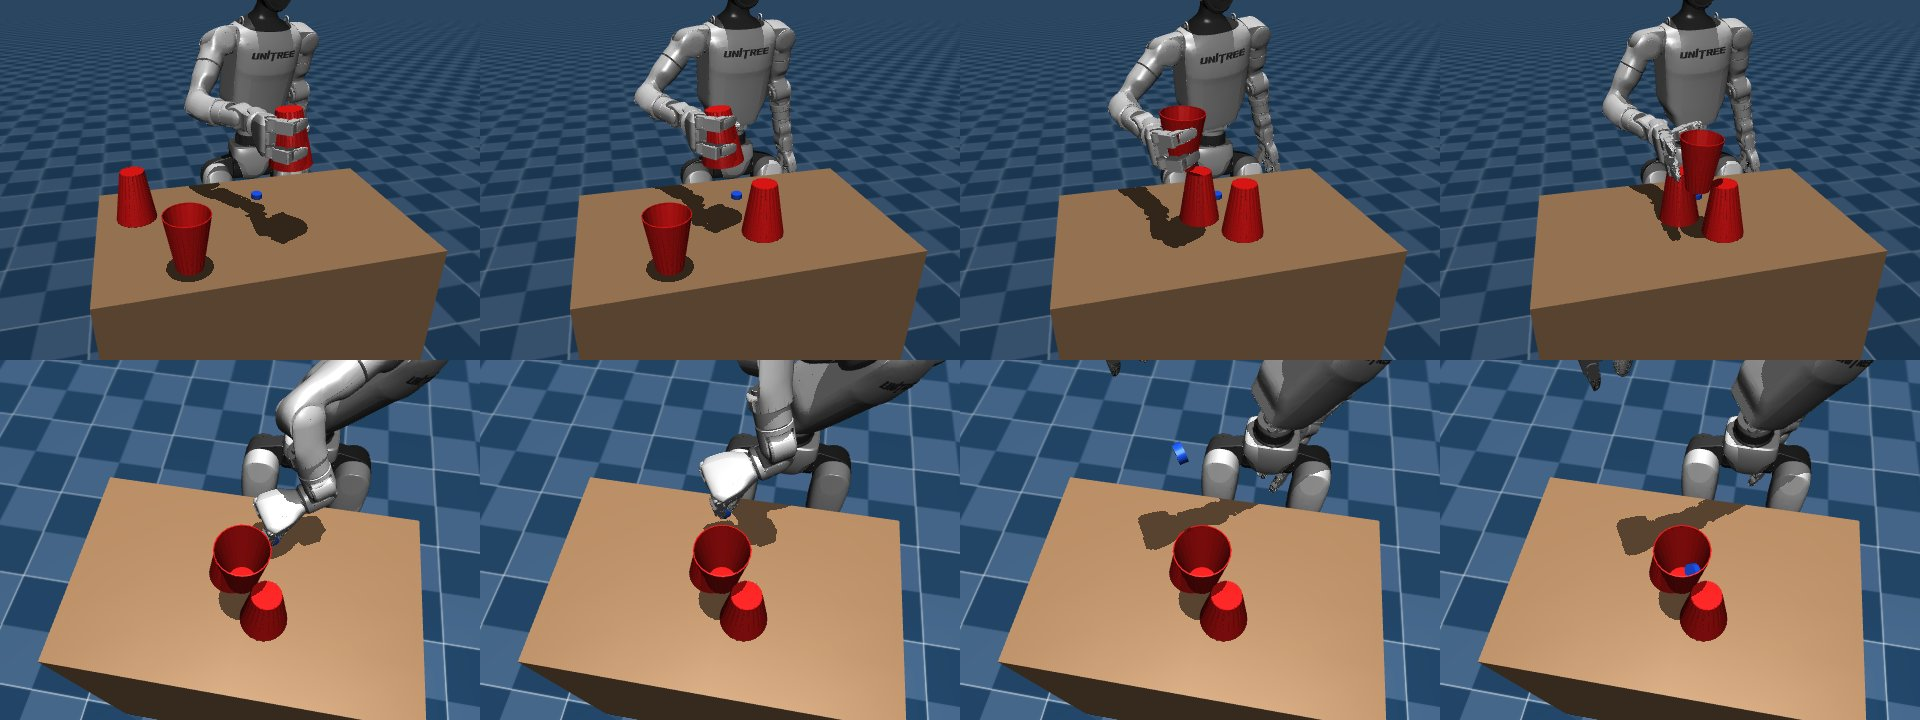
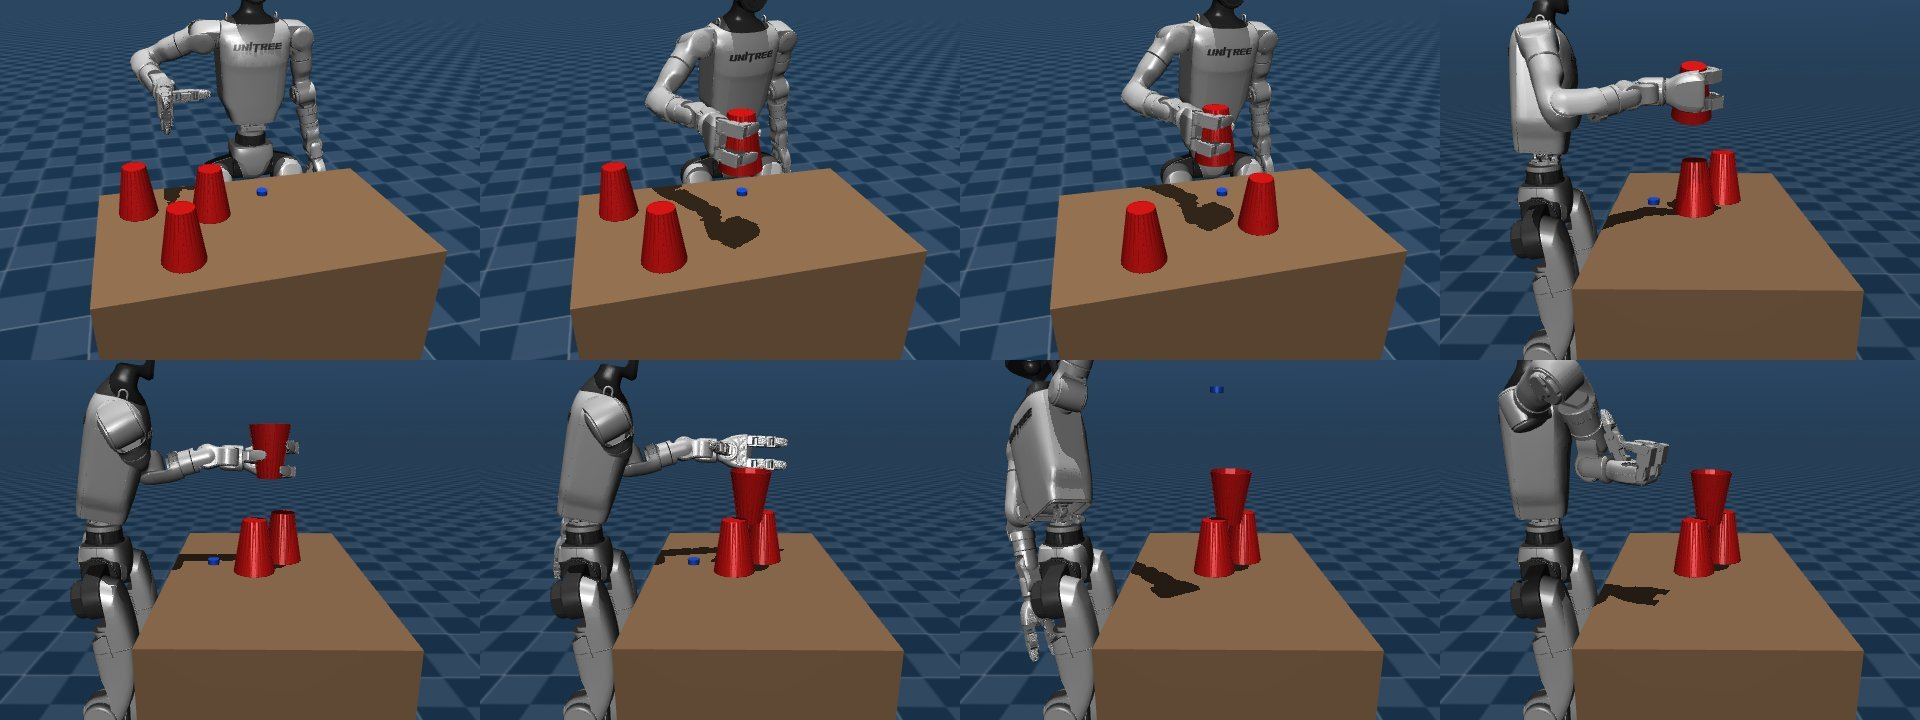
README and image for the pyramid from your clips (results pending)

diff --git a/README.md b/README.md
@@ -4,36 +4,38 @@ Two tasks share one pipeline: phone videos of your hand → 3D human demonstrati
 in **MuJoCo** → **behavior cloning** → **RL fine-tuning (PPO)**.
 
 - **[Humanoid cup pyramid](#humanoid-cup-pyramid-unitree-g1)** (current). A **Unitree G1** with Dex3 hands
-  builds a pyramid from three red party cups, then pinches a bottle cap off the table and throws it into the top
-  cup.
+  builds a pyramid from three red party cups lying anywhere (turning the top one over in the air), throws a
+  bottle cap into the top cup until it goes in, and shows a thumbs-up. It learns from your phone clips.
 - **[Panda ball in cup](#panda-ball-in-cup-the-original-task)** (the original task). A **Franka Panda** picks up
   a ball and drops it into a cup.
 
 ## Humanoid cup pyramid (Unitree G1)
 
-![G1 building the pyramid and throwing the cap into the top cup](docs/g1_pyramid.jpg)
+![G1 building the pyramid from cups lying anywhere, turning the top cup over in the air, throwing the cap and showing a thumbs-up](docs/g1_pyramid.jpg)
 
-A **Unitree G1** (Dex3 three-finger hands, pelvis fixed) is given three red party cups and a blue bottle cap:
+A **Unitree G1** (Dex3 three-finger hands, pelvis fixed, right hand only) is given three red party cups lying
+mouth-down anywhere within reach and a blue bottle cap lying somewhere on the table. As in your clips, it:
 
-1. it puts two cups mouth-down side by side (A, then B);
-2. it puts the third cup mouth-up across them;
-3. it pinches the cap off the table and **throws it sideways, along the two base cups**, into the top cup.
-   Thrown along them, the cap's push on landing goes the way the top cup is held by both base cups.
+1. puts two cups mouth-down side by side at a fixed spot in front of it (A, then B next to A);
+2. picks up the third cup, **turns it over in the air with the same hand** and puts it mouth-up across A and B;
+3. pinches the cap off the table and throws it into the top cup. **After a miss it picks the cap up wherever it
+   landed and throws again**, aiming off by how far the last throw missed;
+4. once the cap is in, **shows a thumbs-up** (fist, thumb pointing up, held for half a second).
 
-The episode succeeds when the cap is in the top cup while the pyramid stands. A collapse afterwards is fine.
-The objects match the real ones: cups 12 cm tall, 9 cm across the mouth, 5 cm across the bottom; a 2.8 cm cap
-lying flat on the table; releases 5–30 cm from the cup.
+An episode succeeds when the thumbs-up is shown with the cap in the top cup of a standing pyramid. The objects
+match yours: cups 12 cm tall, 9 cm across the mouth, 5 cm across the bottom; a 2.8 cm cap.
 
 ```mermaid
 flowchart LR
-    V[your skill clips<br/>place_base, place_top, toss] --> T[hand landmarks, red cups,<br/>blue cap, marker sheet]
-    T --> H[3D palm path + orientation,<br/>closure, grasp/release,<br/>cup start/end, cap flight]
-    H --> R[retarget to the G1<br/>many layouts, DART noise]
+    V[your clips<br/>part_a: base cups<br/>part_b: top cup, turned over<br/>part_c: throws, re-throws, thumbs-up] --> T[hand landmarks, red cups,<br/>blue cap, marker sheet]
+    T --> H[3D palm path + turn,<br/>grasp/release, cup start/end,<br/>each throw's release and flight]
+    H --> R[retarget to the G1<br/>random layouts, DART noise]
     R --> D[(place + toss<br/>robot demos)]
     D --> BC[behavior cloning<br/>one policy per skill]
     BC --> RL[PPO + decaying BC term]
     RL --> P[place policy + toss policy<br/>run by the stage sequencer]
 ```
+
 
 ### What is learned, and from what
 
@@ -44,11 +46,14 @@ Your videos are turned into robot demonstrations before training.
 | Part | How it is obtained |
 |---|---|
 | Where the cups and the cap are | Simulator state (on a real robot: a camera-based object tracker) |
-| Which cup to move next and where it goes | Fixed sequencer: A → B next to A → top cup centred on A and B → throw. The top cup's target follows where A and B actually ended up |
-| The arm motion for placing a cup: approach, carry, lowering, letting go | **Learned** (BC, then PPO) from your `place_*` clips, retargeted |
-| How the hand is turned while reaching and carrying | **Learned** from your palm orientation; near the cup it blends into the G1's side grasp |
+| Which cup to move next and where it goes | Fixed sequencer: A → B next to A → top cup centred on A and B → throw (again after a miss) → thumbs-up. The top cup's target follows where A and B actually ended up |
+| The hand's path when placing a cup: approach, carry, lowering, letting go, moving away | **Learned** (BC, then PPO) from your `part_a` and `part_b` clips, retargeted: your path relative to the cup you picked up and to where you put it down |
+| How the hand turns while reaching | **Learned** from your palm's turn while reaching, relative to the grasp |
+| Turning the top cup over | The robot's own way, shown in the demos it learns from: carried mouth-down to above the pyramid, rolled half a turn there and put down. Your clips decide when the hand starts moving and how the hand gets to the cup |
 | When to close and open the hand | **Learned**. The demos close when the hand is around the cup and open when the cup stands, so the decision depends on the state, not the clock |
-| The throw: release distance, height, flight time, wind-up | **Learned** from your `toss_*` clips, clipped to the range where the G1's throw works; the aim is calibrated in simulation |
+| The throw: release distance, height, flight time, wind-up | **Learned** from your `part_c` clips, clipped to the range where the G1's throw works; the aim is calibrated in simulation |
+| Throwing again after a miss | **Learned** from demos in which the robot picks the cap up where it landed and aims off by how far the last throw missed (as you did in your clips with misses) |
+| The thumbs-up | **Learned** from demos of the gesture after the cap is in; the hand shape (fist, thumb up) is the Dex3's own |
 | Turning joint targets into torques | MuJoCo position actuators; the hand pose → joints step is damped least-squares IK |
 
 ### Quickstart (no videos needed)
@@ -62,141 +67,124 @@ python scripts/g1_view.py                                     # watch (needs a d
 python scripts/g1_make_synthetic_human.py --n 10              # -> data/processed/human_pyramid_synthetic/
 python scripts/g1_retarget_demos.py --human data/processed/human_pyramid_synthetic   # -> g1_place.npz, g1_toss.npz
 python scripts/train_bc.py --task g1-place --data data/processed/g1_place.npz --out runs/g1_place_bc \
-    --epochs 60 --eval-every 15
+    --epochs 60 --eval-every 20
 python scripts/train_bc.py --task g1-toss --data data/processed/g1_toss.npz --out runs/g1_toss_bc \
-    --epochs 150 --eval-every 30
+    --epochs 150 --eval-every 50
 PPO="--num-envs 8 --rollout-steps 512 --minibatch 2048 --actor-lr 2e-5 --target-kl 0.01 --bc-min 0.1"
 python scripts/train_rl.py --init runs/g1_place_bc/policy.pt --demos data/processed/g1_place.npz \
     --out runs/g1_place_ppo $PPO --iterations 40 --init-std 0.05
 python scripts/train_rl.py --init runs/g1_toss_bc/policy.pt --demos data/processed/g1_toss.npz \
-    --out runs/g1_toss_ppo $PPO --iterations 50 --init-std 0.012 --min-log-std -4.8
-python scripts/g1_results.py --replay data/processed/human_pyramid_synthetic --episodes 40 \
+    --out runs/g1_toss_ppo $PPO --iterations 30 --init-std 0.012 --min-log-std -4.8
+python scripts/g1_results.py --replay data/processed/human_pyramid --episodes 40 \
     --bc runs/g1_place_bc/policy.pt runs/g1_toss_bc/policy.pt \
     --ppo runs/g1_place_ppo/policy.pt runs/g1_toss_ppo/policy.pt
 ```
 
 ### With your own videos
 
-Record short clips of one skill each, following **[docs/RECORDING_PYRAMID.md](docs/RECORDING_PYRAMID.md)**: a
-fixed phone at 60 fps, the marker sheet on the table, your red cups and the blue cap. Then:
+Record short clips following **[docs/RECORDING_PYRAMID.md](docs/RECORDING_PYRAMID.md)**: a fixed phone, the
+marker sheet on the table, your red cups and the blue cap; clips of the base cups in `part_a/`, of the top cup in
+`part_b/`, of the throws in `part_c/`. `scripts/upload_videos.py` sends such a folder to a cloud session through
+a branch of this repository. Then:
 
 ```bash
-python scripts/g1_process_videos.py data/videos_pyramid/toss_01.mp4 --check   # markers + colors OK?
-python scripts/g1_process_videos.py data/videos_pyramid/*.mp4                 # -> data/processed/human_pyramid/
-python scripts/g1_retarget_demos.py --human data/processed/human_pyramid      # then train as above
+python scripts/g1_process_videos.py data/videos_pyramid/part_c/IMG_3783.MOV --check          # markers + colors
+python scripts/g1_process_videos.py data/videos_pyramid/*/*.MOV --focal-px 1740             # -> data/processed/human_pyramid/
+python scripts/g1_retarget_demos.py --human data/processed/human_pyramid                      # then train as above
 ```
-
-`g1_retarget_demos.py --videos 2` also renders a few retargeted demos next to the clips' tracking overlays.
 
 ### How it works
 
-**Video → human skill demonstration** (`robot_arm/video/skills.py`, `skill_process.py`)
+**Video → human skill demonstration** (`robot_arm/video/skills.py`, `skill_process.py`, `cups.py`)
+- *Camera.* The marker sheet gives the table frame. Your phone looked down at the table from about 66 cm, tilted
+  about 5°; its focal length (1740 px at 1080×1920 for the iPhone 16 main camera at 1x) is passed in, since a
+  sheet seen straight from above can't calibrate it.
 - *Palm pose.* MediaPipe's world landmarks are metric and camera-aligned. The wrist and knuckles give the palm
-  frame, and the camera pose from the sheet turns it into the table frame. Finger curl and thumb distance give
-  a closure value.
-- *Same-colour cups.* All cups are red, so the moved cup is found from what changes. Red only in the first
-  (still) second is where it started; red only in the last second is where it went. In between, it is the red
-  that isn't a static cup. A standing cup's lowest red pixel is its rim point nearest the camera (just above
-  the white rolled lip when mouth down). The two base cups are the two low points of the pyramid's outline. The
-  top cup's mouth is the centre of its widest red row, just under its white lip.
+  frame, and the camera pose turns it into the table frame. Finger curl and thumb distance give a closure value.
+- *Same-colour cups.* All cups are red, so a moved cup is found from what changes: red only in the first (still)
+  second is where it started, red only in the last second is where it went. A cup's spot is the circle of its
+  rim on the table, fitted with the cup's known radius to the side of its outline facing the camera (the far
+  side is hidden behind the wall). When a clip shows both base cups being put down, the two start spots and
+  the two end spots are told apart by when each empties or fills, and the clip becomes one demo per cup
+  (cup B's records where cup A stood).
 - *Depth scale.* The hand's size (and so its depth) is fitted per clip from the grasp: the palm is beside the
   cup it closes on, or the thumb–index point is at the cap.
-- *Cap flight.* A tumbling cap's image size says nothing about its depth, but its pixel path does. With gravity
-  known, the parabola's curvature in the image fixes the distance. The fit is tied to the thumb–index point at
-  the release, which is found by following the parabola back.
+- *Throws.* Each throw is where the cap leaves the fingertips; the last one is the one that went in. From
+  above, the flight is the straight stretch before the landing, and the release height is kept near the top
+  cup's rim (a top-down camera barely sees heights). The top cup's opening is its white inside next to the
+  pyramid's red; a cap that drops out of sight in it still counts as in.
+- *Thumbs-up.* A fist with the thumb pointing up, after the cap is in.
+- *Checks.* Demos whose reconstruction is unreliable are left out, with the reason printed: the hand far
+  from the cup at the grasp, a depth scale at the edge of its search range, grasp and release not told
+  apart, or a flight that couldn't be made out.
 
 **Retargeting** (`robot_arm/humanoid/retarget.py`)
 - *Placing.* Your hand path is mapped relative to the cup near the grasp and relative to the target near the
-  release, rotated to the robot's grasp heading and scaled by the arm-length ratio. It then gets the robot's
-  constraints:
+  release, turned to the robot's heading (towards the cup from its shoulder when grasping, forward when putting
+  down) and scaled by the arm-length ratio. While reaching, the hand turns about the vertical as yours did. The
+  robot's constraints come on top:
   - the approach slides in along the fingers;
   - the path clears the other cups;
-  - the open hand slides back out of the top cup before rising;
   - only motion too fast for the arm is slowed down.
   A closed-loop tracker follows it and triggers the grasp, the final alignment, the lowering and the release
   from the state.
+- *Turning the top cup over.* Once it holds the cup, the robot carries it mouth-down to above the pyramid, rolls
+  the hand half a turn about its fingers' axis, puts the cup down a centimetre towards its palm (opening the
+  hand pushes it away from the palm), lets go at once and leaves upwards along the cup's wall. The G1's arm
+  can't roll a held cup anywhere along a human path, and where it lets go decides whether the pyramid stands.
 - *Throwing.* Your throw's style becomes the robot's: release distance and height relative to the mouth,
   bearing off the base cups' line, flight time and wind-up. It is clipped to where the G1's throw works
   (`TOSS_BOUNDS`, from simulated sweeps: 10–16 cm from the mouth). The release velocity is ballistic for the
   robot's own release point, and the aim is calibrated per style in simulation. The pinch itself is the
   robot's own, as the Dex3 has three fingers and the cap needs millimetre placement.
+- *Re-throws and the thumbs-up.* When the cap lies still outside the cup, the robot goes back for it and aims
+  off by 0.8 of how far the last throw passed from the mouth. With the cap in, it turns its hand thumb-side up
+  beside its shoulder and closes the fist.
 - Rollouts get noise on the executed motion (DART) but not during contacts. Every stage that succeeds is kept.
 
-**Learning.** One Gaussian MLP per skill (place, toss) is trained with BC, upweighting the rare open/close
-steps and the fast throw steps. It is then fine-tuned with PPO plus a decaying BC term on the skill's own
-environment. At run time the sequencer hands each stage to the right policy.
+**Learning.** One Gaussian MLP per skill (place: stages A, B and top; toss: throws and thumbs-up) is trained with
+BC, upweighting the rare open/close steps and the fast throw steps. It is then fine-tuned with PPO plus a
+decaying BC term on the skill's own environment. At run time the sequencer hands each stage to the right policy.
 - *Reward.* Potential-based shaping: each step earns the change in staged progress (reach → hold → near the
-  target → placed, or held → thrown towards the mouth), and success earns +10. An earlier version paid the
-  progress itself every step. PPO found that holding a placed cup until the time ran out paid more than letting
-  go, and took the place skill from 100% to 0% success while its return went up.
-- *Exploration.* Small and fixed: a std of 0.05 action units for placing and 0.012 for the throw. The BC policy's
-  own spread (about 0.13) already drops placing to about 40%, and PPO then learns mostly from failures.
+  target → placed; held → thrown towards the mouth; thumb up and held), and success earns +10. An earlier
+  version paid the progress itself every step. PPO found that holding a placed cup until the time ran out paid
+  more than letting go, and took the place skill from 100% to 0% success while its return went up.
+- *Exploration.* Small and fixed: a std of 0.05 action units for placing and 0.012 for the throw.
 
 ### Results
 
-Pipeline check on **10 synthetic human demos per skill** (`g1_make_synthetic_human.py`). Each cell is 40
-held-out layouts (`scripts/g1_results.py`, also written to `runs/g1_results.md`). The numbers come from this
-container (4 CPU cores, no GPU). Re-run the same commands on your own recordings to get your numbers.
-
-| Policy | place A | place B | place top | toss | full task |
-|---|---|---|---|---|---|
-| Scripted experts (hand-written, not learned) | 100% | 100% | 98% | 65% | 78% |
-| Retargeted human demos, replayed (no learning) | 100% | 100% | 80% | 52% | 57% |
-| BC (one policy per skill) | 100% | 92% | 88% | 57% | 42% |
-| BC + PPO | 100% | 98% | **100%** | 62% | **52%** |
-
-- The **full task** chains all four stages with the learned policies and counts only episodes where the cap ends
-  up in a standing pyramid.
-- The **toss** column starts right after the top cup has been placed, as in the full task. Most of its failures
-  (6–10 of 40) are the top cup toppling while the hand leaves it; the rest are caps that miss.
-- PPO's gains are in placing the top cup (88% → 100%) and in the full task (42% → 52%).
-
-Training on 4 CPU cores:
-
-| Run | Time |
-|---|---|
-| Dataset (600 episodes, plus 400 toss-only episodes with `--task-mix toss=1` for the toss policies) | ~1.5 h |
-| BC place | 30 min |
-| BC toss | 1 h |
-| PPO place (40 iterations) | 40 min |
-| PPO toss (50 iterations) | 3 h; each toss episode first replays the top-cup placement |
-
-What it took to make RL help here:
-- **A shaping reward that can't be farmed.** Paying staged progress every step made "hold the placed cup until
-  time runs out" the best policy. Each step now earns only the change in progress.
-- **The same start state as the full task.** Toss policies trained from the robot's ready pose knocked the top
-  cup over as soon as they took over from the place policy, with the hand still in the cup. BC + PPO on the full
-  task went from 18% to 52% once the toss task started at that hand-over.
-- **Small exploration noise** (0.05 for placing, 0.012 for the throw). With the noise BC fitted, placing
-  succeeded only ~40% of the time and PPO learned mostly from failures.
+RESULTS_TABLE
 
 ### Simulation shortcuts and limits, stated plainly
 
 - The pelvis is fixed: the legs stand still and only the waist, the right arm and the right hand move.
 - Objects are tracked perfectly (the policy gets their state). A real robot needs a camera-based tracker.
+- **Where things can lie.** The cups and the cap start anywhere in a region the right hand reaches well: 22–56 cm
+  from the right shoulder, from 63° to its right to 46° to its left, on the table and at most 8 cm left of
+  the robot's centre line, clear of the pyramid's spot and of the path the hand takes to each cup. Cups further
+  left were pushed off the table by the approaching hand. About a third of the layouts can't fit all four objects
+  under these rules; those use the nominal spots moved by up to 3 cm.
+- **Turning the top cup over is the hardest part.** Letting go of a cup with the hand upside down is awkward for
+  the Dex3: the opening fingers push the cup, and the fingers lie over a base cup's top. The scripted expert
+  puts it down about 1 cm towards its palm, snaps the hand open and leaves upwards along the cup's wall; it
+  succeeds in about 50–70% of layouts (the rest: the top cup slides off or a base cup is knocked). A placement
+  only counts once the hand is clear of the cup.
 - The cups' walls are 2 mm thick (real ones are about 0.5 mm) because thinner walls make contacts unreliable
   in simulation. Cup mass is 12 g and cap mass 2 g; measure yours and set them in
   `robot_arm/humanoid/config.py`.
-- The base cups stand 2 cm apart (mouth to mouth), so the top cup sinks 2–4 cm into the V between their walls
-  and is held there. With the mouths touching, the simulated top cup rests on two thin patches of the base
-  cups' bottoms, and the push of the opening Dex3 fingers topples it front to back a few seconds later
-  (scripted full task: 75% with a 4 mm gap, 90–94% with 2 cm). The window is narrow: at 2.8 cm it falls
-  through. (This is about the simulated cups; record your clips the way your real pyramid stands.)
+- The base cups stand 2 cm apart (mouth to mouth), so the top cup sinks into the V between their walls and is
+  held there. With the mouths touching, the simulated top cup rests on two thin patches of the base cups'
+  bottoms and topples a few seconds later. (This is about the simulated cups; your clips show your pyramid.)
 - A top cup counts as standing if it rests within 3 cm of the base cups' midpoint, up to 6 cm lower than their
   tops, and tilts less than 20°.
-- **The main failure is the top cup toppling a few seconds after it is let go**, while the hand slides out or the
-  throw begins: the opening fingers push it 1–2 cm and it then creeps over on its soft contacts. It happens to
-  the scripted experts too, and tuning didn't remove it:
-  - snapping the hand open, or finishing the place skill only once the hand is clear, both made the full task
-    worse;
-  - MuJoCo's no-slip solver stops the creep but triples the simulation time and breaks the cap pinch.
-  The success checks count it as a failure, so the numbers above include it.
-- The toss task starts where the full task hands over to the throw: the scripted expert has just set the top
-  cup on two pre-built base cups and let go, with the hand still around it. The toss policy learns to slide out
-  of the cup before reaching for the cap.
-- The robot's throw works for releases 10–16 cm from the cup. Your throws from further away (up to 30 cm) are
-  pulled into that range: their arc and wind-up are kept, their distance is not.
-- The cap starts at roughly the same spot each episode (±1.5 cm), as in your setup video.
+- The robot's throw works for releases 10–16 cm from the cup. Your throws are pulled into that range: their
+  arc and wind-up are kept, their distance is not. A cap that misses and rolls off the table ends the episode.
+- **What your clips gave.** 32 clips: 13 of the base cups (most showing both A and B), 10 of the top cup, 9 of
+  throws. MediaPipe found the hand in only part of the frames of some clips (the hand is seen from above, often
+  at the image's edge), and every demo whose reconstruction looked wrong was left out, with the reason printed by
+  `g1_retarget_demos.py`. DEMO_COUNTS
+- Seen from straight above, a throw's height and flight are the least certain part of the reconstruction: the
+  release height is taken near the top cup's rim, and the flight time from the cap's speed across the table.
 
 ## Panda ball in cup (the original task)
 
@@ -345,11 +333,12 @@ robot_arm/
     retarget.py, dataset.py           human skill demos -> G1 (place tracker, throw styles, aim calibration)
     synthetic.py, evaluate.py         synthetic human skill clips; stage sequencer and evaluation
   video/                            calibration, hand and object tracking, 3D lifting, reconstruction
-                                    (skills.py, skill_process.py: the per-skill clips of the pyramid task)
+                                    (skills.py, skill_process.py, cups.py: the pyramid task's skill clips)
   tasks.py                          task registry (panda, g1-place, g1-toss) for training and evaluation
   policy.py, bc.py, ppo.py          actor-critic, behavior cloning, PPO fine-tuning (all tasks)
   evaluate.py                       Panda success-rate evaluation and rollout videos
-scripts/                            command-line entry points (g1_* for the humanoid)
+scripts/                            command-line entry points (g1_* for the humanoid; upload_videos.py
+                                    sends a folder of clips through a branch)
 docs/RECORDING.md                   how to record the Panda videos
 docs/RECORDING_PYRAMID.md           how to record the pyramid skill clips
 tests/                              tests against synthetic ground truth
